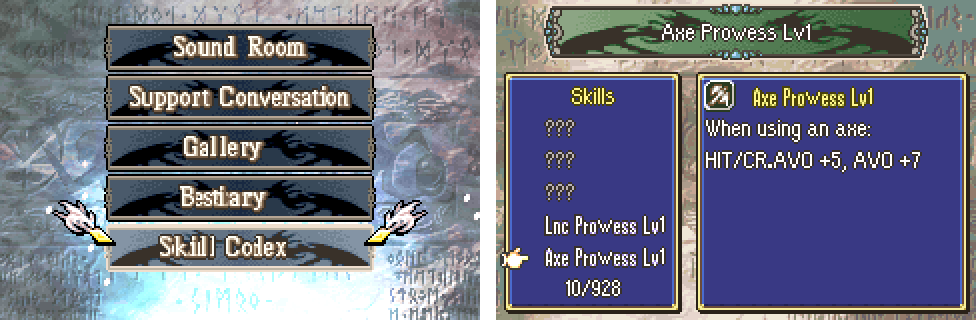
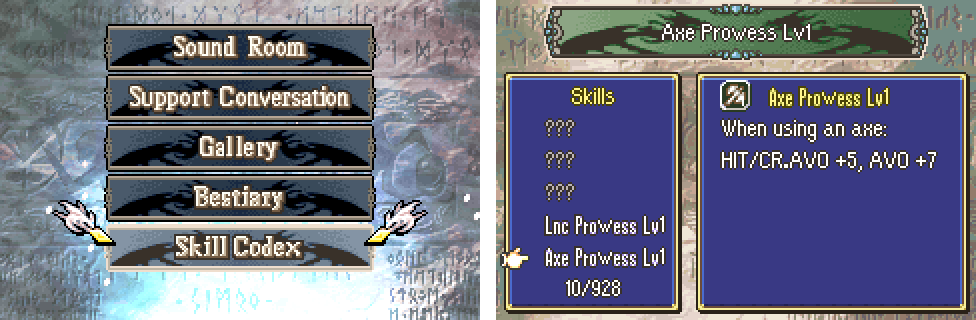
Extras labels: clean, centred Bestiary and Skill Codex; codex description margins (#732)
* Bestiary: Extras > Bestiary, every character and class met

A new Extras row (vanilla's trial-map bit 6) opens a screen with two tabs,
Characters and Classes: the names met (the rest as "???"), and for the one
under the cursor its mini portrait or map sprite, its class or movement,
bases or growths (A), and its description, wrapped.

- Met: at every phase start, each unit on the map the player can see (not
  hidden in fog) marks its character and class. Lists in
  Data/Bestiary/Bestiary.c; rows that share a name are merged.
- Kept per save, as one record for the cartridge: the bits live in RAM and
  in the bytes after the save tables of the game and suspend saves, after
  New Game+'s (new SaveData/Source/SaveTail.c shares them). Loading or
  starting a game takes in every other save's bits; the title shows the
  union. Not a chunk: the save layout and its signature do not change.
- The label "Bestiary" is assembled from vanilla's own label letters,
  placed round the Gallery's letters in the Extras sheet; the Extras list
  now reads gExtrasLabelSprites (8 entries).
- Smoke test test_bestiary; the Gallery test's route moves one row up.
- Docs: Bestiary.md, README, SaveData.md (no free SRAM), Menus.md,
  NewGamePlus.md, Gallery.md, a CLAUDE.md pitfall.

Claude-Session: https://claude.ai/code/session_01JBGikDP32ZYxx6qXR4N284

* Skill Codex: Extras > Skill Codex, every skill and the ones met

A new Extras row (bit 7, the last of the list's byte) opens a list of every
[…]

diff --git a/Tools/extras-labels/labels.py b/Tools/extras-labels/labels.py
@@ -1,0 +1,164 @@
+#!/usr/bin/env python3
+"""Draw the Extras labels made from vanilla's letters into the Extras label sheet.
+
+    python3 Tools/extras-labels/labels.py fe8.gba
+
+The Extras list's labels are sprites in a hand-drawn font, in Kernel/Wizardry/NewGamePlus/Gfx/Img_NgpMenuObjs.png.
+Vanilla has no label for the rows this hack adds, so their words are built from the letters of vanilla's own labels
+(Img_GameMainMenuObjs, Img_SaveScreenSprits, Img_DifficultyMenuObjs, read from the clean ROM):
+
+- A letter is its core: the palette 1-4 pixels (2-pixel strokes) between two columns of a vanilla word. Pieces of a
+  neighbour cut off with it (under 3 pixels) are dropped.
+- A word is its letters' cores a column apart, rendered in the font's style: a core pixel is white (1), tan (3) where
+  it continues a stroke from the left and from above; the drop shadow (5) is right of and below the core; the outline
+  (6) is round the lot.
+- Two letters are drawn by hand in the same strokes: the i (vanilla's is a stem with a notch, which reads as an l)
+  and the x (Extras' runs into its t).
+
+Each word is centred in the sheet's free tiles given below (label row, first tile column, tiles); the sprites that
+show them are gExtrasLabelSprites (Kernel/Wizardry/NewGamePlus/Source/NgpSaveMenu.c). Run it again after changing a
+word: it clears those tiles first. See Documentation/FeatureTypes/Menus.md, "Extras enum is fixed".
+"""
+import os
+import sys
+
+from PIL import Image
+
+ROOT = os.path.dirname(os.path.dirname(os.path.dirname(os.path.abspath(__file__))))
+SHEET = os.path.join(ROOT, "Kernel/Wizardry/NewGamePlus/Gfx/Img_NgpMenuObjs.png")
+
+# The vanilla sheets (LZ77, 4bpp, 32 tiles a row) and the 16-pixel bands of the words used
+VANILLA = {"main": 0xA2812C, "save": 0xA26A74, "diff": 0xA28A0C}
+BANDS = {
+    "Battle History": ("main", 0), "Link Arena": ("main", 32), "Sound Room": ("main", 32),
+    "Restart Chapter": ("save", 48), "Copy Data": ("save", 80), "Extras": ("save", 16),
+    "Select Mode": ("diff", 0), "Easy": ("diff", 32), "Gallery": ("sheet", 16),
+}
+# Each letter: the word it comes from and its columns in that sheet
+CUTS = {
+    "B": ("Battle History", 138, 146), "a": ("Battle History", 146, 151), "t": ("Battle History", 152, 156),
+    "e": ("Battle History", 164, 169), "s": ("Easy", 40, 44), "y": ("Easy", 44, 50),
+    "k": ("Link Arena", 165, 173), "r": ("Restart Chapter", 44, 48), "S": ("Sound Room", 23, 29),
+    "l": ("Gallery", 49, 52), "C": ("Copy Data", 101, 108), "o": ("Copy Data", 109, 114),
+    "d": ("Select Mode", 192, 198),
+}
+DRAWN = {
+    "i": (2, [".##", ".##", "...", "###", ".##", ".##", ".##", ".##", ".##", "###"]),
+    "x": (5, ["##...##", ".##.##.", "..###..", "..###..", ".##.##.", "##...##", "##...##"]),
+}
+SPACE = 3
+# The words and where they go: (label row, first tile column, tiles), in the order the canvas is cut
+LABELS = [
+    ("Bestiary", [(1, 0, 4), (1, 10, 2)]),
+    ("Skill Codex", [(2, 14, 4), (2, 28, 4), (2, 26, 2)]),
+]
+
+
+def lz77(rom, off):
+    size = rom[off + 1] | rom[off + 2] << 8 | rom[off + 3] << 16
+    out, i = bytearray(), off + 4
+    while len(out) < size:
+        flags = rom[i]
+        i += 1
+        for b in range(8):
+            if len(out) >= size:
+                break
+            if flags & (0x80 >> b):
+                v = rom[i] << 8 | rom[i + 1]
+                i += 2
+                for _ in range((v >> 12) + 3):
+                    out.append(out[-((v & 0xFFF) + 1)])
+            else:
+                out.append(rom[i])
+                i += 1
+    return bytes(out)
+
+
+def tiles(data):
+    """4bpp tiles, 32 a row, as a function (x, y) -> palette index"""
+    def px(x, y):
+        t = (y >> 3) * 32 + (x >> 3)
+        b = data[t * 32 + (y & 7) * 4 + ((x & 7) >> 1)]
+        return (b >> ((x & 1) * 4)) & 0xF
+    return px
+
+
+def letter(pixel, y0, x0, x1):
+    pts = {(x, y) for y in range(16) for x in range(x1 - x0) if 1 <= pixel(x0 + x, y0 + y) <= 4}
+    out, seen = set(), set()
+    for p in sorted(pts):
+        if p in seen:
+            continue
+        comp, stack = {p}, [p]
+        seen.add(p)
+        while stack:
+            cx, cy = stack.pop()
+            for q in ((cx + 1, cy), (cx - 1, cy), (cx, cy + 1), (cx, cy - 1)):
+                if q in pts and q not in seen:
+                    seen.add(q)
+                    comp.add(q)
+                    stack.append(q)
+        if len(comp) >= 3:
+            out |= comp
+    left = min(x for x, _ in out)
+    return [(x - left, y) for x, y in out]
+
+
+def render(glyphs):
+    core, cur = set(), 1
+    for g in glyphs:
+        if isinstance(g, int):
+            cur += g
+            continue
+        core |= {(cur + x, y) for x, y in g}
+        cur += max(x for x, _ in g) + 2
+    w = cur + 1
+    rows = [[0] * w for _ in range(16)]
+    for x, y in core:
+        rows[y][x] = 3 if (x - 1, y) in core and (x, y - 1) in core else 1
+    shadow = {(x, y) for y in range(16) for x in range(w) if (x, y) not in core and
+              ((x - 1, y) in core or (x, y - 1) in core or (x - 1, y - 1) in core)}
+    for x, y in shadow:
+        rows[y][x] = 5
+    body = core | shadow
+    for y in range(16):
+        for x in range(w):
+            if (x, y) not in body and any((x + dx, y + dy) in body for dx in (-1, 0, 1) for dy in (-1, 0, 1)):
+                rows[y][x] = 6
+    return rows, w
+
+
+def main():
+    if len(sys.argv) != 2:
+        sys.exit(__doc__)
+    rom = open(sys.argv[1], "rb").read()
+    sheet = Image.open(SHEET)
+    px = sheet.load()
+    pixels = {k: tiles(lz77(rom, v)) for k, v in VANILLA.items()}
+    pixels["sheet"] = lambda x, y: px[x, y]
+
+    glyphs = {c: letter(pixels[BANDS[w][0]], BANDS[w][1], x0, x1) for c, (w, x0, x1) in CUTS.items()}
+    glyphs.update({c: [(x, top + y) for y, r in enumerate(rows) for x, ch in enumerate(r) if ch == "#"]
+                   for c, (top, rows) in DRAWN.items()})
+
+    for text, places in LABELS:
+        rows, w = render([SPACE if c == " " else glyphs[c] for c in text])
+        canvas = sum(n for _, _, n in places) * 8
+        if w > canvas:
+            sys.exit("%s: %d pixels, the tiles hold %d" % (text, w, canvas))
+        left = (canvas - w) // 2
+        flat = [[0] * canvas for _ in range(16)]
+        for y in range(16):
+            flat[y][left:left + w] = rows[y]
+        cx = 0
+        for row, col, n in places:
+            for y in range(16):
+                for x in range(n * 8):
+                    px[col * 8 + x, row * 16 + y] = flat[y][cx + x]
+            cx += n * 8
+        print("%s: %d pixels, %d in a %d-pixel canvas" % (text, w, left, canvas))
+    sheet.save(SHEET)
+
+
+if __name__ == "__main__":
+    main()

diff --git a/Kernel/Wizardry/SkillCodex/Source/SkillCodexScreen.c b/Kernel/Wizardry/SkillCodex/Source/SkillCodexScreen.c
@@ -38,13 +38,14 @@
 #define INFO_Y         4
 #define INFO_W         18
 #define INFO_H         16
-#define ICON_X         (INFO_X + 1)
+#define ICON_X         (INFO_X + 2) /* a tile in: in line with the description */
 #define ICON_Y         (INFO_Y + 1)
-#define SUB_X          (INFO_X + 4)
+#define SUB_X          (INFO_X + 5)
 #define DESC_X         (INFO_X + 1)
 #define DESC_Y         (INFO_Y + 3)
 #define DESC_LINES     6
 #define INFO_IN_W      16 /* tiles inside the window */
+#define DESC_MARGIN    8 /* pixels free left and right of the description */
 
 #define PAL_ICONS      4 /* and 5: the skill icons' banks */
 #define PAL_MURAL      14 /* and 15 */
@@ -202,14 +203,14 @@ static void SkillCodex_DrawInfo(void)
 	if (CS->count == 0 || !SkillCodex_Met(sid)) {
 		ExtrasUi_PutLeft(&CS->name, TEXT_COLOR_SYSTEM_GRAY, GetStringFromIndex(MSG_CODEX_NOT_MET),
 				 gBG0TilemapBuffer + TILEMAP_INDEX(SUB_X, ICON_Y));
-		ExtrasUi_DrawWrapped(CS->desc, DESC_LINES, INFO_IN_W * 8, NULL,
+		ExtrasUi_DrawWrapped(CS->desc, DESC_LINES, INFO_IN_W * 8, DESC_MARGIN, NULL,
 				     gBG0TilemapBuffer + TILEMAP_INDEX(DESC_X, DESC_Y));
 	} else {
 		DrawIcon(gBG2TilemapBuffer + TILEMAP_INDEX(ICON_X, ICON_Y), SKILL_ICON(sid),
 			 TILEREF(0, PAL_ICONS + GetSkillIconPal(sid)));
 		ExtrasUi_PutLeft(&CS->name, TEXT_COLOR_SYSTEM_GOLD, GetSkillNameStr(sid),
 				 gBG0TilemapBuffer + TILEMAP_INDEX(SUB_X, ICON_Y));
-		ExtrasUi_DrawWrapped(CS->desc, DESC_LINES, INFO_IN_W * 8, SkillCodex_DescText(sid),
+		ExtrasUi_DrawWrapped(CS->desc, DESC_LINES, INFO_IN_W * 8, DESC_MARGIN, SkillCodex_DescText(sid),
 				     gBG0TilemapBuffer + TILEMAP_INDEX(DESC_X, DESC_Y));
 	}
 
@@ -261,7 +262,7 @@ static void SkillCodex_Setup(struct ProcSkillCodex *proc)
 	InitText(&CS->countText, LIST_W - 2);
 	for (i = 0; i < VISIBLE_ROWS; i++)
 		InitText(&CS->names[i], LIST_W - 4);
-	InitText(&CS->name, INFO_IN_W - 3);
+	InitText(&CS->name, INFO_IN_W - 4);
 	for (i = 0; i < DESC_LINES; i++)
 		InitText(&CS->desc[i], INFO_IN_W);
 

diff --git a/Kernel/Wizardry/Bestiary/Source/ExtrasUi.c b/Kernel/Wizardry/Bestiary/Source/ExtrasUi.c
@@ -72,8 +72,9 @@ void ExtrasUi_LoadBanner(void)
 /*
  * A text wrapped to px pixels in n lines, each a Text, put two tile rows apart from tm: line breaks (and other control
  * bytes) become spaces, and words go on a line while it fits. The rest is left out. NULL clears the lines.
+ * margin pixels are left free on each side: the text starts margin pixels in and wraps margin pixels before px.
  */
-void ExtrasUi_DrawWrapped(struct Text *lines, int n, int px, const char *src, u16 *tm)
+void ExtrasUi_DrawWrapped(struct Text *lines, int n, int px, int margin, const char *src, u16 *tm)
 {
 	char text[0x200], line[0x60];
 	int i, row = 0, len = 0, word;
@@ -107,10 +108,10 @@ void ExtrasUi_DrawWrapped(struct Text *lines, int n, int px, const char *src, u1
 			memcpy(line + len + (len != 0), src, word);
 			line[len + (len != 0) + word] = '\0';
 
-			if (len != 0 && GetStringTextLen(line) > px) {
+			if (len != 0 && GetStringTextLen(line) > px - 2 * margin) {
 				/* No: the line goes out as it was, the word starts the next */
 				line[len] = '\0';
-				Text_InsertDrawString(&lines[row++], 0, TEXT_COLOR_SYSTEM_WHITE, line);
+				Text_InsertDrawString(&lines[row++], margin, TEXT_COLOR_SYSTEM_WHITE, line);
 				len = 0;
 				continue;
 			}
@@ -120,7 +121,7 @@ void ExtrasUi_DrawWrapped(struct Text *lines, int n, int px, const char *src, u1
 		}
 
 		if (len != 0 && row < n)
-			Text_InsertDrawString(&lines[row], 0, TEXT_COLOR_SYSTEM_WHITE, line);
+			Text_InsertDrawString(&lines[row], margin, TEXT_COLOR_SYSTEM_WHITE, line);
 	}
 
 	for (i = 0; i < n; i++)

diff --git a/Kernel/Wizardry/NewGamePlus/Source/NgpSaveMenu.c b/Kernel/Wizardry/NewGamePlus/Source/NgpSaveMenu.c
@@ -281,17 +281,21 @@ const u16 Sprite_NgpExtrasLabel[] = {
  * installer points it here). Vanilla's for the rows whose labels are where vanilla drew them. The Gallery's and Link
  * Arena's are cut to their letters, so that the free tiles round them can hold the Bestiary's label (the Gallery's
  * sheet row, tiles 0-3 and 10-11) and the Skill Codex's (Link Arena's row, tiles 14-17, 28-31 and 26-27).
+ *
+ * Every label is centred on x 64 from the sprite's origin, as vanilla's are: the left column of the sheet is drawn
+ * from x 8 (its words sit 8 pixels left in their 112-pixel slot), the right column from x 0. The Bestiary's and the
+ * Skill Codex's words are centred in their pieces, which start at 64 less half their width.
  */
 static const u16 Sprite_GalleryExtrasLabel[] = {
 	2,
-	0x4000, 0x8000 + 32, 0x0A44,
-	0x0000, 0x4000 + 64, 0x0A48,
+	0x4000, 0x8000 + 40, 0x0A44,
+	0x0000, 0x4000 + 72, 0x0A48,
 };
 
 static const u16 Sprite_BestiaryExtrasLabel[] = {
 	2,
-	0x4000, 0x8000 + 32, 0x0A40,
-	0x0000, 0x4000 + 64, 0x0A4A,
+	0x4000, 0x8000 + 40, 0x0A40,
+	0x0000, 0x4000 + 72, 0x0A4A,
 };
 
 static const u16 Sprite_LinkArenaExtrasLabel[] = {
@@ -302,9 +306,9 @@ static const u16 Sprite_LinkArenaExtrasLabel[] = {
 
 static const u16 Sprite_SkillCodexExtrasLabel[] = {
 	3,
-	0x4000, 0x8000 + 16, 0x0A8E,
-	0x4000, 0x8000 + 48, 0x0A9C,
-	0x0000, 0x4000 + 80, 0x0A9A,
+	0x4000, 0x8000 + 24, 0x0A8E,
+	0x4000, 0x8000 + 56, 0x0A9C,
+	0x0000, 0x4000 + 88, 0x0A9A,
 };
 
 const u16 *const gExtrasLabelSprites[8] = {

diff --git a/include/kernel/extras-ui.h b/include/kernel/extras-ui.h
@@ -16,4 +16,4 @@ char *ExtrasUi_Append(char *dst, const char *src);
 void ExtrasUi_PutCentred(struct Text *t, int px, int color, const char *str, u16 *tm);
 void ExtrasUi_PutLeft(struct Text *t, int color, const char *str, u16 *tm);
 void ExtrasUi_LoadBanner(void);
-void ExtrasUi_DrawWrapped(struct Text *lines, int n, int px, const char *src, u16 *tm);
+void ExtrasUi_DrawWrapped(struct Text *lines, int n, int px, int margin, const char *src, u16 *tm);

diff --git a/Kernel/Wizardry/Bestiary/Source/BestiaryScreen.c b/Kernel/Wizardry/Bestiary/Source/BestiaryScreen.c
@@ -285,7 +285,7 @@ static void Bestiary_ClearStats(void)
 
 static void Bestiary_DrawDesc(int msg)
 {
-	ExtrasUi_DrawWrapped(BS->desc, DESC_LINES, DESC_PX, msg != 0 ? GetStringFromIndex(msg) : NULL,
+	ExtrasUi_DrawWrapped(BS->desc, DESC_LINES, DESC_PX, 0, msg != 0 ? GetStringFromIndex(msg) : NULL,
 			     gBG0TilemapBuffer + TILEMAP_INDEX(STATS_X, DESC_Y));
 }
 

diff --git a/Documentation/FeatureTypes/Menus.md b/Documentation/FeatureTypes/Menus.md
@@ -320,7 +320,7 @@ The item text uses `MenuItemProc::text`, which is per row and survives across fr
 - **Options array size is fixed.** `gGameOptionsUiOrder_NEW` is declared `[33]` and lists 33 entries (`MenuOptions.c:10-46`). Adding a row without bumping the size is a silent error, and the order array is what the screen walks.
 - **`SetGameOption` has no default branch.** An option with no `case` is silently not stored (`MenuOptions.c:674-737`). Add the `case` in both `SetGameOption` and `GetGameOption`.
 - **Options bits are the save layout.** `gPlaySt.config` is a bitfield (`types.h:140`) with spare bits named `custom_option_*`. Whether it is written to the save file is unverified; check `Documentation/Memory.md` before adding bits that must persist.
-- **Extras enum is fixed.** `EXTRA_MENU_*` runs 0-6 (`savemenu.h:56-61`); `extra_options` is a `u8`, and bit 7 is the Skill Codex's (`Documentation/Features/SkillCodex.md`): no bit is left. Bit 3 (vanilla's unshown "Battle History") is New Game+'s, bit 4 (Map) the Gallery's, bit 6 (the trial map) the Bestiary's (`Documentation/Features/Bestiary.md`). Bit 0 (Link Arena) never shows (`RemoveLinkArena.event`); a new row could take it, with its `IsExtraLinkArenaEnabled` check replaced. Each row's label is a sprite, not text: `gExtrasLabelSprites` (`NewGamePlus/Source/NgpSaveMenu.c`) over the label sheet `NewGamePlus/Gfx/Img_NgpMenuObjs.png`, which has no free 112-pixel slot left; the Bestiary's and the Skill Codex's labels are in pieces round the Gallery's and Link Arena's letters. A new row needs art from the letters of vanilla's labels and the sheet's free tiles. With Link Arena gone the list has at most 7 rows; an 8th would be off screen in vanilla's layout (`sub_80AAF6C`).
+- **Extras enum is fixed.** `EXTRA_MENU_*` runs 0-6 (`savemenu.h:56-61`); `extra_options` is a `u8`, and bit 7 is the Skill Codex's (`Documentation/Features/SkillCodex.md`): no bit is left. Bit 3 (vanilla's unshown "Battle History") is New Game+'s, bit 4 (Map) the Gallery's, bit 6 (the trial map) the Bestiary's (`Documentation/Features/Bestiary.md`). Bit 0 (Link Arena) never shows (`RemoveLinkArena.event`); a new row could take it, with its `IsExtraLinkArenaEnabled` check replaced. Each row's label is a sprite, not text: `gExtrasLabelSprites` (`NewGamePlus/Source/NgpSaveMenu.c`) over the label sheet `NewGamePlus/Gfx/Img_NgpMenuObjs.png`, which has no free 112-pixel slot left; the Bestiary's and the Skill Codex's labels are in pieces round the Gallery's and Link Arena's letters. A new row needs art: add its word to `Tools/extras-labels/labels.py` (it builds words from the letters of vanilla's labels, in their style, into the sheet's free tiles) and a sprite in `gExtrasLabelSprites` centred 64 pixels from its origin (the sheet's left column is drawn from x 8, the right from x 0). With Link Arena gone the list has at most 7 rows; an 8th would be off screen in vanilla's layout (`sub_80AAF6C`).
 - **Standalone menus need the setup calls.** `CallForgeMenuASMC` sets display, fonts, UI frame graphics and icon graphics before `StartMenu` (`ForgeMenu.c:446-456`). Skipping them leaves the menu without its graphics. The sample `Example.c` above copies the same calls.
 - **Crafting menu is not installed.** `Kernel/Wizardry/Crafting/Crafting_Installer.event` is included only by a commented-out line (`Kernel/Wizardry/wizardry.event:143`). Its `CallSynthesisMenuASMC` (`Crafting.c:32`) is reachable only if that line is enabled.
 - **`PopupRework` names are not `Menus`.** Popups are in `Documentation/FeatureTypes/UI.md`, not here.

diff --git a/Documentation/Features/SkillCodex.md b/Documentation/Features/SkillCodex.md
@@ -26,8 +26,8 @@
 - **The list** on the left, in a window: "Skills", five names (a skill not met yet shows as "???", in grey), and how
   many are met (10/928). Up and down move the hand; left and right move five rows; **L and R go to the previous or
   next skill met**, so the met ones are quick to find among the hundreds.
-- **The info** on the right, in a window: the skill's icon and name, and its description, wrapped to the window, up to
-  six lines. The name at the start of a description ("Axe Prowess Lv1: ...") is left out, as the line above says it.
+- **The info** on the right, in a window: the skill's icon and name, and its description, wrapped to the window with
+  8 pixels free on each side (the icon is in line with it), up to six lines. The name at the start of a description ("Axe Prowess Lv1: ...") is left out, as the line above says it.
 - B goes back to Extras.
 
 ---
@@ -63,10 +63,12 @@ title's screen shows what the three game saves and the suspend save hold togethe
   (the list walks all 8 bits). `InitSaveMenuChoice` (`ExtrasMenu/Source/SupportMenu.c`) always adds it; the Extras list
   (`sub_80A9B90`), `SaveMenuStartExtraMiscScreen` and `SaveMenuPostExtraMiscScreen` have a case for it. With Link Arena
   removed (`RemoveLinkArena.event`) the list has at most 7 rows, which vanilla's layout fits.
-- **The row's label.** "Skill Codex" is put together from the letters of vanilla's own labels (the "S" of Sound Room,
-  the "k" and "i" of Link Arena, the "ll" of Gallery, the "Co" of Copy Data, the "de" of Select Mode, the "x" of
-  Extras), in the Extras label sheet (`NewGamePlus/Gfx/Img_NgpMenuObjs.png`), in three pieces in the free tiles of
-  Link Arena's sheet row (tiles 14-17, 28-31 and 26-27). Link Arena's sprite in `gExtrasLabelSprites` is cut to its
+- **The row's label.** "Skill Codex" is drawn in vanilla's label font from vanilla's own letters (the "S" of Sound
+  Room, the "k" of Link Arena, the "l" of Gallery, the "Co" of Copy Data, the "d" of Select Mode, the "e" of Battle
+  History; the dotted "i" and the "x" drawn in the same strokes) by `Tools/extras-labels/labels.py` (see the
+  [Bestiary](./Bestiary.md#how-it-works)), in the Extras label sheet (`NewGamePlus/Gfx/Img_NgpMenuObjs.png`), in
+  three pieces in the free tiles of Link Arena's sheet row (tiles 14-17, 28-31 and 26-27), centred 64 pixels from
+  its sprite's origin. Link Arena's sprite in `gExtrasLabelSprites` is cut to its
   letters (tiles 18-25) to leave them free.
 - **The list** is not kept as a table: the cursor and the top row are skill ids, and moving walks the ids
   (`SkillCodex_Step`). The screen's state lives in the Bestiary screen's RAM (`gBestiaryScreen`): the Extras screens

diff --git a/Documentation/Features/Bestiary.md b/Documentation/Features/Bestiary.md
@@ -87,10 +87,12 @@ see (the player's own units always). A row is met when any character (or class) 
   `NewGamePlus/Source/NgpSaveMenu.c`) opens it as the Sound Room is opened; `SaveMenuStartExtraMiscScreen` and
   `SaveMenuPostExtraMiscScreen` (`Gallery/Source/Gallery.c`) start it and come back to the Extras list. The trial
   map's cases in the save picker (`sub_80A9E1C`) and its header label (`sub_80ABF74`) are gone.
-- **The row's label.** "Bestiary" is put together from the letters of vanilla's own labels (the "B" of Battle History,
-  "est" and "ar" of Restart, the "i" of Link Arena, the "y" of History), in the Extras label sheet
-  (`NewGamePlus/Gfx/Img_NgpMenuObjs.png`). The sheet has no free 112-pixel slot, so the label is in two pieces: tiles
-  0-3 and 10-11 of the Gallery's sheet row, round the Gallery's letters (tiles 4-9). The Extras list reads its label
+- **The row's label.** "Bestiary" is drawn in vanilla's label font from vanilla's own letters (the "B", "a", "t" and
+  "e" of Battle History, the "s" and "y" of Easy, the "r" of Restart; the dotted "i" drawn in the same strokes) by
+  `Tools/extras-labels/labels.py`, which re-renders each letter's core with the font's shading, drop shadow and
+  outline. It is in the Extras label sheet (`NewGamePlus/Gfx/Img_NgpMenuObjs.png`); the sheet has no free 112-pixel
+  slot, so the label is in two pieces: tiles 0-3 and 10-11 of the Gallery's sheet row, round the Gallery's letters
+  (tiles 4-9). Like every Extras label, it is centred 64 pixels from its sprite's origin. The Extras list reads its label
   sprites from `gExtrasLabelSprites` (`NgpSaveMenu.c`; the installer points vanilla's `sub_80AAC40` at it): vanilla's
   sprites for the rows still where vanilla drew them, New Game+'s, the Gallery's and Link Arena's cut to their
   letters, the Bestiary's and the Skill Codex's.
